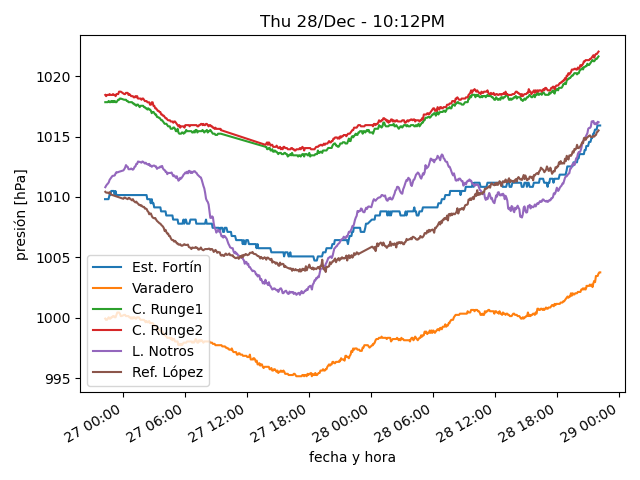
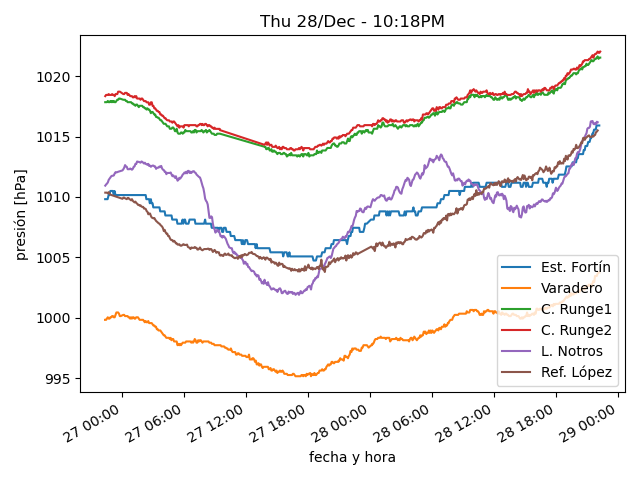
actualiza datos

diff --git a/estaciones/estacion3.html b/estaciones/estacion3.html
@@ -18,32 +18,32 @@
     </tr>
     <tr>
      <td class="stats_data">
-      9:59PM
+      10:14PM
      </td>
     </tr>
     <tr>
      <td class="stats_data">
-      14.6
+      14.5
      </td>
     </tr>
     <tr>
      <td class="stats_data">
-      4.1
+      3.8
      </td>
     </tr>
     <tr>
      <td class="stats_data">
-      49.4
+      48.9
      </td>
     </tr>
     <tr>
      <td class="stats_data">
-      1009.92
+      1009.82
      </td>
     </tr>
     <tr>
      <td class="stats_data">
-      3.9/5.5 W
+      10.3/14.4 SSW
      </td>
     </tr>
     <tr>

diff --git a/estaciones/estacion4.html b/estaciones/estacion4.html
@@ -18,7 +18,7 @@
     </tr>
     <tr>
      <td class="stats_data">
-      9:59PM
+      10:14PM
      </td>
     </tr>
     <tr>
@@ -28,12 +28,12 @@
     </tr>
     <tr>
      <td class="stats_data">
-      2.8
+      2.3
      </td>
     </tr>
     <tr>
      <td class="stats_data">
-      45.7
+      44.1
      </td>
     </tr>
     <tr>
@@ -43,7 +43,7 @@
     </tr>
     <tr>
      <td class="stats_data">
-      0.8/1.5 S
+      3.8/5.7 SW
      </td>
     </tr>
     <tr>
